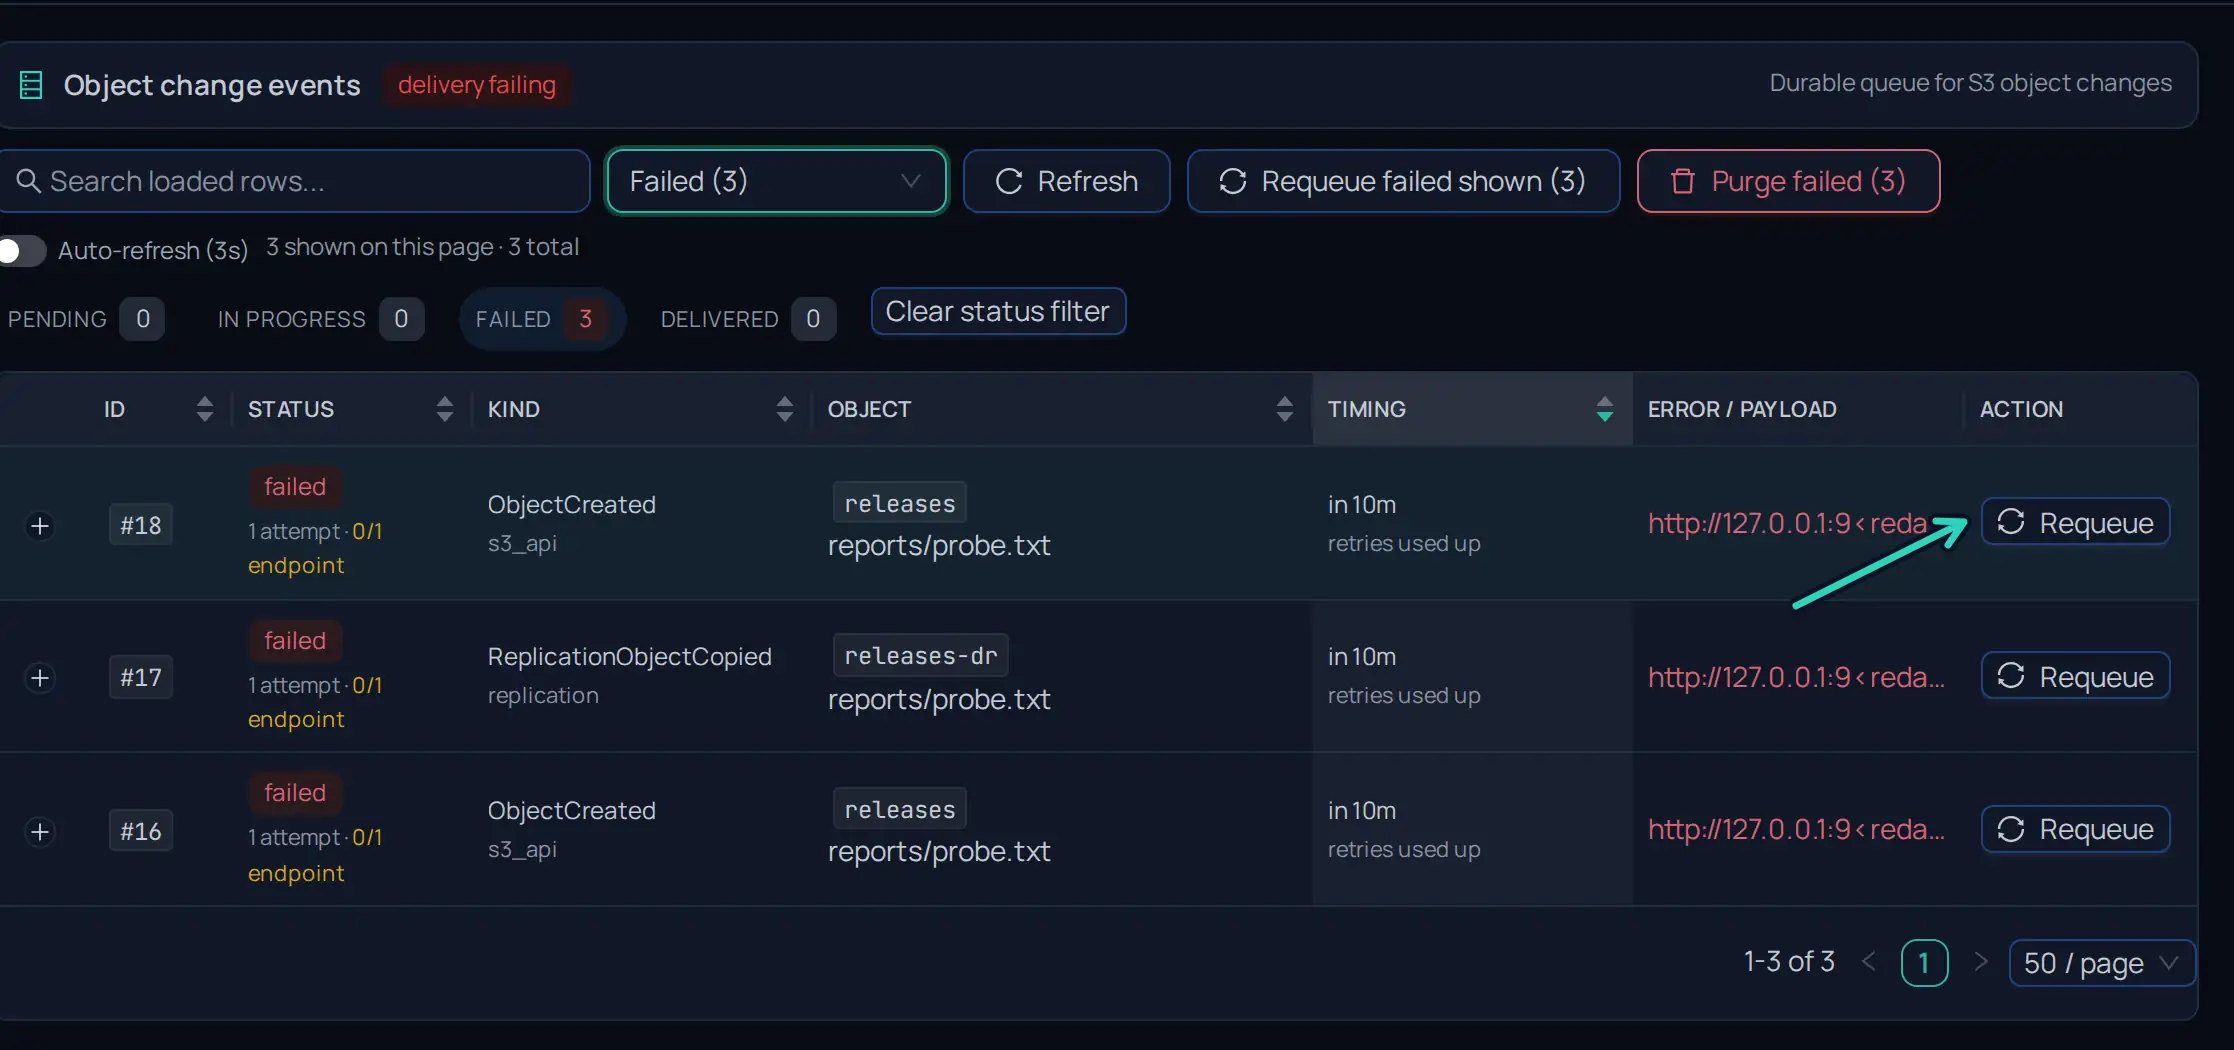
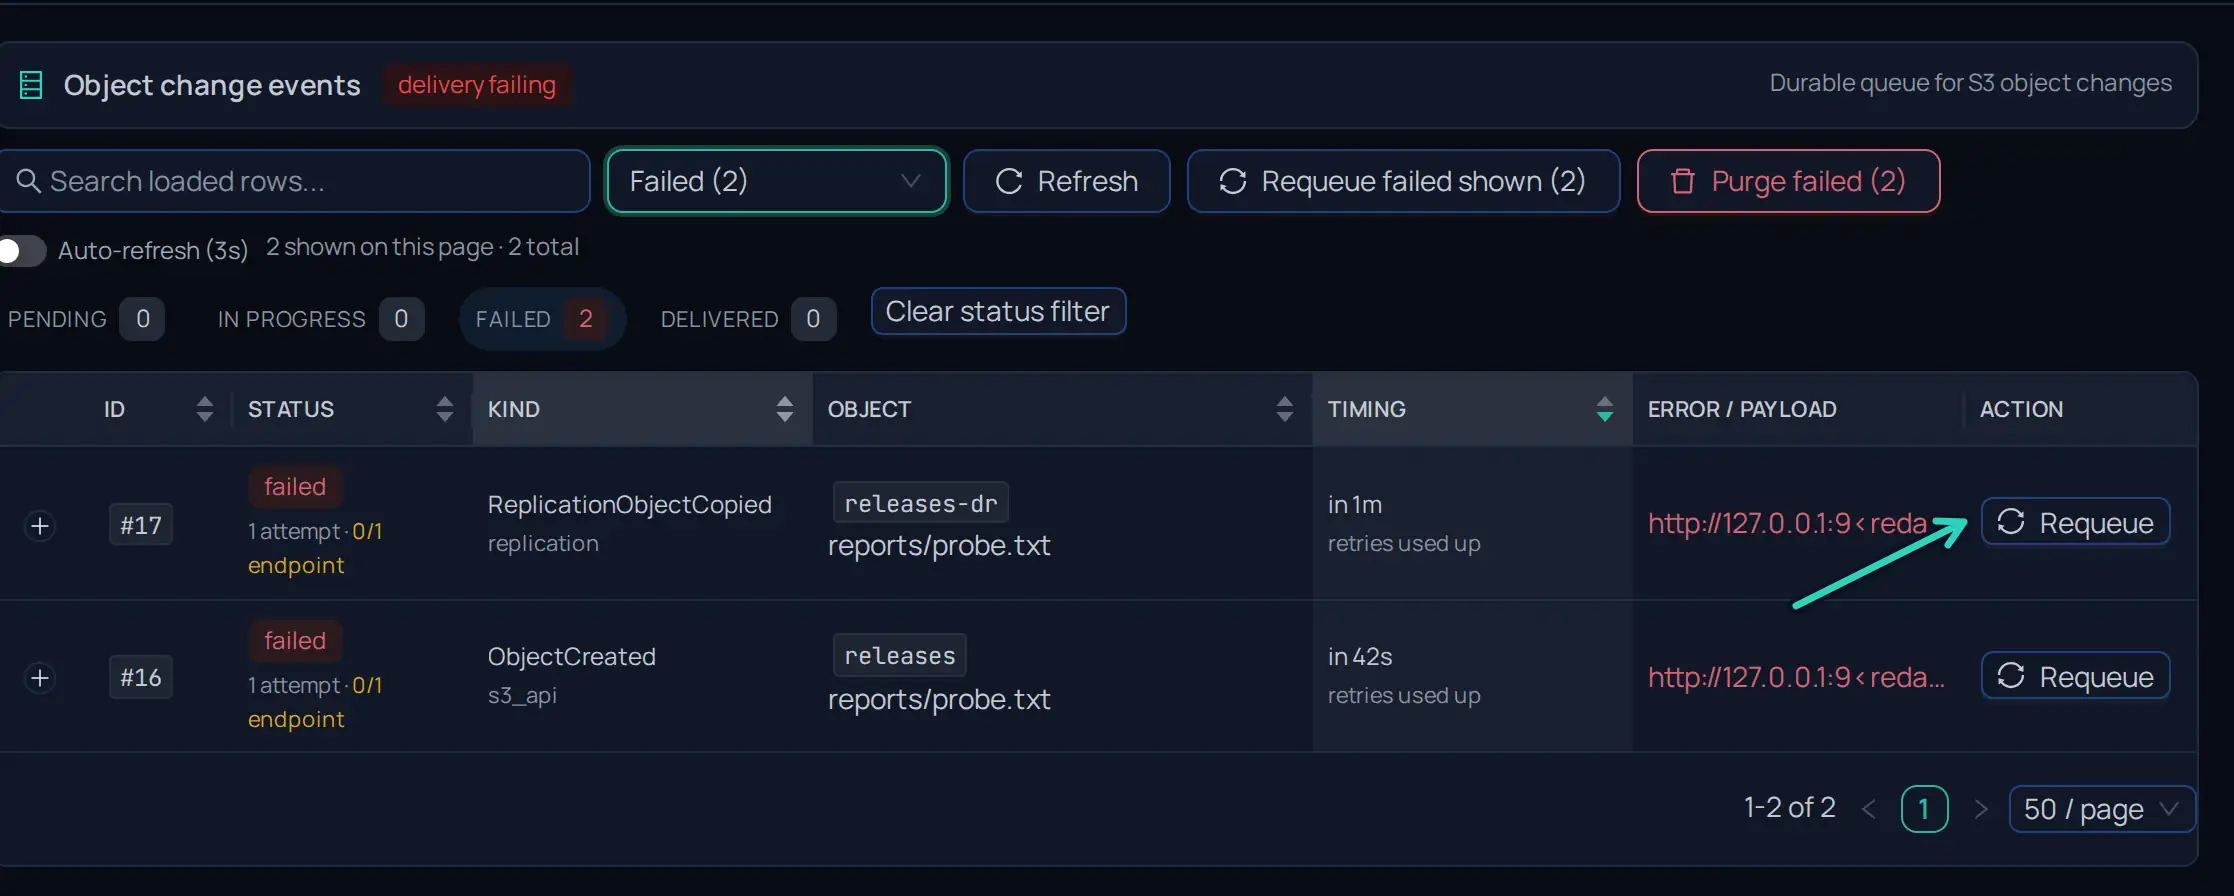
docs(shots): the event-log, KMS, filter and dashboard shots are stable
events-log-requeue waits for both failed rows (the upload and its
replication copy) and uploads its probe once for both themes; encrypt-kms
scrolls to a fixed position; the dashboard shot re-scans a bucket that a
replicated object marks stale. Re-captured those shots.

diff --git a/demo/s3-browser/ui/e2e/docs-screenshots/shots/integrations.ts b/demo/s3-browser/ui/e2e/docs-screenshots/shots/integrations.ts
@@ -182,13 +182,20 @@ export const INTEGRATIONS_SHOTS: Shot[] = [
           secretAccessKey: process.env.E2E_SECRET_KEY ?? 'qa-admin-secret-0123456789',
         },
       });
-      await s3.send(new PutObjectCommand({ Bucket: 'releases', Key: 'reports/probe.txt', Body: 'probe\n' }));
+      const failed = async () => {
+        const r = await page.request.get('/_/api/admin/event-outbox?limit=50');
+        return ((await r.json()) as { counts?: { failed?: number } }).counts?.failed ?? 0;
+      };
+      // One probe for both themes: the second capture must see the same rows.
+      if ((await failed()) === 0) {
+        await s3.send(new PutObjectCommand({ Bucket: 'releases', Key: 'reports/probe.txt', Body: 'probe\n' }));
+      }
       s3.destroy();
       const end = Date.now() + 60_000;
       for (;;) {
-        const r = await page.request.get('/_/api/admin/event-outbox?limit=50');
-        const body = (await r.json()) as { counts?: { failed?: number } };
-        if ((body.counts?.failed ?? 0) > 0) break;
+        // Two rows: the upload, and the copy that event-driven replication
+        // makes into releases-dr (its event arrives a moment later).
+        if ((await failed()) >= 2) break;
         if (Date.now() > end) throw new Error('events-log-requeue: no failed event after 60 s');
         await new Promise((res) => setTimeout(res, 500));
       }

diff --git a/demo/s3-browser/ui/e2e/docs-screenshots/shots/observability.ts b/demo/s3-browser/ui/e2e/docs-screenshots/shots/observability.ts
@@ -63,10 +63,17 @@ export const OBSERVABILITY_SHOTS: Shot[] = [
       // the page says so (the text before the click can already read 4 of 4
       // from the cache of an earlier capture).
       await page.getByRole('button', { name: /Re-scan all/ }).click();
+      // Done twice, 2 s apart: a replicated object can mark a bucket stale
+      // again right after its scan.
+      const scanned = async () => {
+        const t = await page.locator('body').innerText();
+        return /4 of 4 scanned/.test(t) && !/\d+ buckets? not scanned|Scan missing/.test(t);
+      };
       await expect
         .poll(async () => {
-          const t = await page.locator('body').innerText();
-          return /4 of 4 scanned/.test(t) && !/\d+ buckets? not scanned|Scan missing/.test(t);
+          const missing = page.getByRole('button', { name: /Scan missing/ });
+          if (await missing.isVisible()) await missing.click({ timeout: 1000 }).catch(() => undefined);
+          return (await scanned()) && (await page.waitForTimeout(2000), await scanned());
         }, { timeout: 60_000 })
         .toBe(true);
       await page.mouse.move(1, 1);

diff --git a/demo/s3-browser/ui/e2e/docs-screenshots/shots/encryption.ts b/demo/s3-browser/ui/e2e/docs-screenshots/shots/encryption.ts
@@ -152,7 +152,7 @@ export const ENCRYPTION_SHOTS: Shot[] = [
     setup: async (page) => {
       await pickMode(page, 'aws-dr', 'SSE-KMS (AWS KMS)');
       await page.getByPlaceholder('arn:aws:kms:us-east-1:123456789012:key/abcd-efgh').fill('arn:aws:kms:eu-west-1:123456789012:key/abcd-ef01');
-      await page.getByTestId('encryption-apply').scrollIntoViewIfNeeded();
+      await page.getByTestId('encryption-apply').evaluate((el) => el.scrollIntoView({ block: 'center' }));
       await page.mouse.move(1, 1);
     },
     annotations: [
